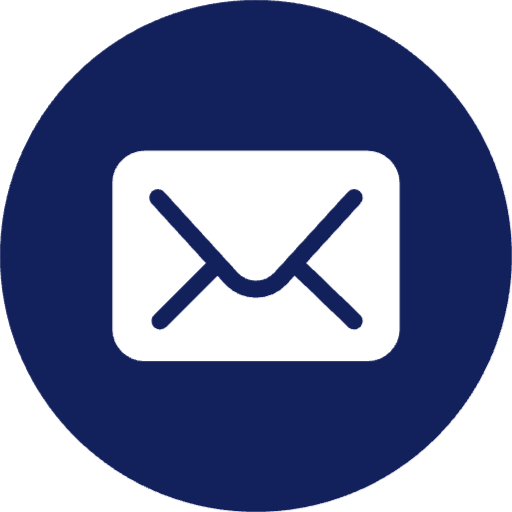
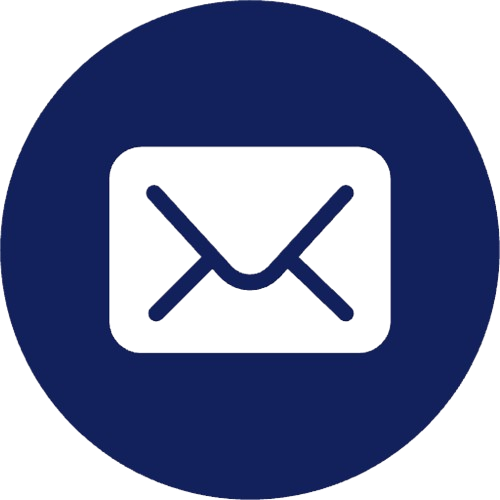
fix transparent for mail

diff --git a/src/Footer.js b/src/Footer.js
@@ -3,7 +3,7 @@ import React from 'react'
 
 function Footer() {
   return (
-<div className='fixed border-b bg-white z-50' style={{right:'4%', bottom:'4%'}}>
+<div className='fixed z-50' style={{right:'4%', bottom:'4%'}}>
     <a href="mailto:tkwok7@gatech.edu">
         <img src="/mail.png" className="w-12 h-12 hover:scale-110"/>
     </a>
